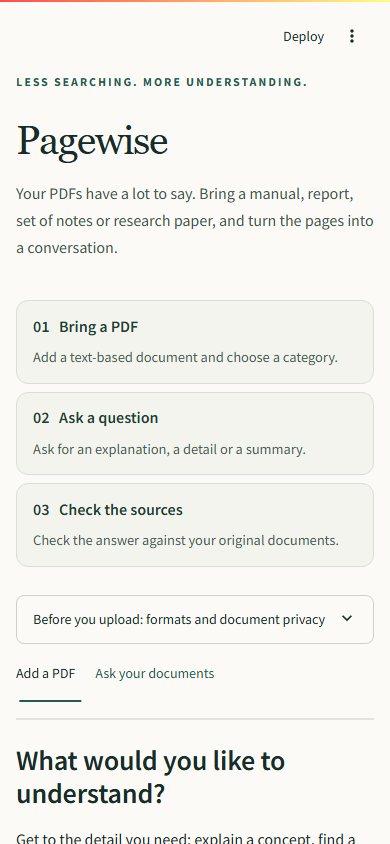
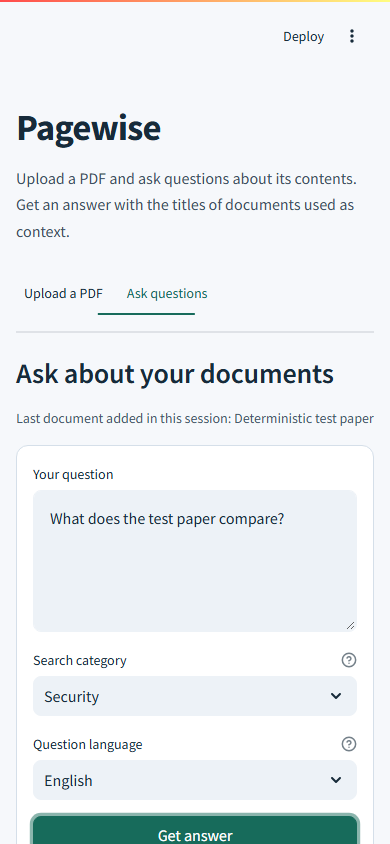
Simplify Pagewise with direct copy and focused upload and question layouts

diff --git a/frontend/app.py b/frontend/app.py
@@ -41,117 +41,124 @@ def post(path, **kwargs):
 st.set_page_config(page_title="Pagewise", page_icon=":books:", layout="wide")
 st.markdown("""
 <style>
-.block-container { max-width: 1120px; padding-top: 5rem; padding-bottom: 3rem; }
-h1, h2, h3 { letter-spacing: -0.035em; }
-h1 { font-family: Georgia, serif !important; font-weight: 500 !important; font-size: clamp(2.5rem, 6vw, 4rem) !important; }
-[data-testid="stCaptionContainer"], [data-testid="stCaptionContainer"] p { color: #4b5b55 !important; opacity: 1 !important; }
-[data-testid="stForm"] { border-radius: 16px; background: #ffffff; padding: 1.4rem; }
-[data-baseweb="tab-list"] { gap: 1.25rem; margin-bottom: 1rem; }
-[data-baseweb="tab"] { font-size: 1rem; padding-bottom: 0.8rem; }
-.workspace-kicker { color: #245c50; font-size: 0.75rem; font-weight: 700; letter-spacing: 0.16em; margin-bottom: 0.3rem; }
-.workspace-intro { font-size: 1.12rem; color: #42554c; max-width: 680px; line-height: 1.7; }
-.workflow { display: grid; grid-template-columns: repeat(3, 1fr); gap: 0.75rem; margin: 1.4rem 0 1.8rem; }
-.workflow-item { border: 1px solid #d8dfd6; border-radius: 12px; padding: 1rem; background: #f2f4ed; }
-.workflow-item b { display: block; color: #203d32; margin-bottom: 0.3rem; }
-.workflow-item span { color: #4b5b55; font-size: 0.9rem; }
+.block-container { max-width: 1160px; padding-top: 4.8rem; padding-bottom: 2rem; }
+h1, h2, h3 { letter-spacing: -0.025em; }
+h1 { font-size: clamp(2.3rem, 5vw, 3rem) !important; font-weight: 650 !important; }
+[data-testid="stCaptionContainer"], [data-testid="stCaptionContainer"] p { color: #46596b !important; opacity: 1 !important; }
+[data-testid="stForm"] { background: #ffffff; border: 1px solid #d5dfe9; border-radius: 12px; padding: 1.4rem; }
+[data-baseweb="tab-list"] { gap: 0.5rem; margin-top: 0.8rem; margin-bottom: 1rem; }
+[data-baseweb="tab"] { font-size: 1rem; padding: 0.7rem 1rem; }
+[data-baseweb="tab"][aria-selected="true"] { font-weight: 650; }
+.workspace-intro { color: #3c5063; font-size: 1.08rem; line-height: 1.65; max-width: 760px; margin-bottom: 1rem; }
 @media (max-width: 640px) {
- .block-container { padding-top: 4.5rem; }
- .workflow { grid-template-columns: 1fr; gap: 0.5rem; }
- .workflow-item { padding: 0.8rem 1rem; }
+ .block-container { padding-top: 4.3rem; }
  [data-testid="stForm"] { padding: 1rem; }
+ [data-baseweb="tab"] { padding: 0.65rem 0.5rem; }
 }
 </style>
-<div class="workspace-kicker">LESS SEARCHING. MORE UNDERSTANDING.</div>
 """, unsafe_allow_html=True)
 st.title("Pagewise")
-st.markdown('<p class="workspace-intro">Your PDFs have a lot to say. Bring a manual, report, set of notes or research paper, and turn the pages into a conversation.</p>', unsafe_allow_html=True)
-st.markdown("""
-<div class="workflow" aria-label="How it works">
- <div class="workflow-item"><b>01 &nbsp; Bring a PDF</b><span>Add a text-based document and choose a category.</span></div>
- <div class="workflow-item"><b>02 &nbsp; Ask a question</b><span>Ask for an explanation, a detail or a summary.</span></div>
- <div class="workflow-item"><b>03 &nbsp; Check the sources</b><span>Check the answer against your original documents.</span></div>
-</div>
-""", unsafe_allow_html=True)
-with st.expander("Before you upload: formats and document privacy"):
-    st.write("Use text-based PDFs up to 10 MB by default. Scanned pages need OCR first. Uploading the same PDF again creates duplicate passages.")
-    st.write("Only upload documents you have permission to process. Document text and questions are sent to external model and translation providers. Everyone using this deployment shares the same document library.")
-    st.caption("Answers can be incomplete or incorrect. Retrieved document titles help you check the context; they are not verified citations for every sentence.")
+st.markdown('<p class="workspace-intro">Upload a PDF and ask questions about its contents. Get an answer with the titles of documents used as context.</p>', unsafe_allow_html=True)
 
-tab_upload, tab_ask = st.tabs(["Add a PDF", "Ask your documents"])
+tab_upload, tab_ask = st.tabs(["Upload a PDF", "Ask questions"])
 with tab_upload:
-    st.subheader("Give your next question a starting point")
-    st.write("Manuals, reports, study notes and research papers are welcome. Add a PDF, then ask questions in its category.")
-    with st.form("upload_form"):
-        file = st.file_uploader("PDF document", type=["pdf"], help="Choose a text-based PDF. Scanned documents need text recognition before upload.")
-        title = st.text_input("Document title", max_chars=250, placeholder="A name you will recognize in your sources")
-        col_domain, col_language = st.columns(2)
-        with col_domain:
-            domain = st.selectbox("Document category", DOMAINS, format_func=CATEGORY_LABELS.get, key="upload_domain", help="Use this same category when asking questions.")
-        with col_language:
-            language = st.selectbox("Document language", list(LANGUAGES), format_func=LANGUAGES.get)
-        with st.expander("Optional: research paper settings"):
-            exclude_references = st.checkbox("Skip reference sections", value=False, help="Stops at a detected References or Bibliography heading and ignores everything after it. Leave off to keep the full document.")
-        uploaded = st.form_submit_button("Make PDF searchable", type="primary", use_container_width=True)
-    if uploaded:
-        if not file or not title.strip():
-            st.warning("Choose a PDF and give your document a title.")
-        else:
-            with st.spinner("Making your document searchable..."):
-                body = post("ingest", files={"file": (file.name, file.getvalue(), "application/pdf")}, data={"paper_title": title.strip(), "domain": domain, "language": language, "exclude_references": str(exclude_references).lower()})
-            if body is not None:
-                if isinstance(body, dict) and isinstance(body.get("inserted_chunks"), int):
-                    st.session_state.last_indexed = {"title": title.strip(), "domain": domain}
-                    st.session_state.ask_domain = domain
-                    st.session_state.pop("answer", None)
-                else:
-                    st.error("The service returned an incomplete indexing result. Please check before uploading again.")
-    if "last_indexed" in st.session_state:
-        paper = st.session_state.last_indexed
-        st.success(f"Document ready: {paper['title']}. Next, open Ask your documents. The {CATEGORY_LABELS[paper['domain']]} category is already selected.")
-    else:
-        st.caption("Text-based PDFs up to 10 MB. Scanned pages need OCR before upload. No sample documents are preloaded.")
+    main, guide = st.columns([2.1, 1], gap="large")
+    with main:
+        st.subheader("Add your document")
+        with st.form("upload_form"):
+            file = st.file_uploader("PDF file", type=["pdf"], help="Text-based PDF, up to 10 MB. Scanned or image-only PDFs need text recognition first.")
+            st.caption("Text-based PDF only. Maximum file size: 10 MB.")
+            title = st.text_input("Document title", max_chars=250, placeholder="For example: Employee handbook", help="This title will appear when the document is used to answer a question.")
+            col_category, col_language = st.columns(2)
+            with col_category:
+                domain = st.selectbox("Document category", DOMAINS, format_func=CATEGORY_LABELS.get, key="upload_domain", help="Questions search all documents in the selected category. Use General documents unless a more specific category fits.")
+            with col_language:
+                language = st.selectbox("Document language", list(LANGUAGES), format_func=LANGUAGES.get)
+            with st.expander("Optional: skip reference sections"):
+                exclude_references = st.checkbox("Stop at References or Bibliography", value=False)
+                st.caption("Only text before the detected heading will be kept. Any appendices after it will also be skipped. Leave this off for most PDFs.")
+            uploaded = st.form_submit_button("Upload PDF", type="primary", use_container_width=True)
+        if uploaded:
+            if not file or not title.strip():
+                st.warning("Choose a PDF and enter a document title.")
+            else:
+                with st.spinner("Preparing your PDF for questions..."):
+                    body = post("ingest", files={"file": (file.name, file.getvalue(), "application/pdf")}, data={"paper_title": title.strip(), "domain": domain, "language": language, "exclude_references": str(exclude_references).lower()})
+                if body is not None:
+                    if isinstance(body, dict) and isinstance(body.get("inserted_chunks"), int):
+                        st.session_state.last_indexed = {"title": title.strip(), "domain": domain}
+                        st.session_state.ask_domain = domain
+                        st.session_state.pop("answer", None)
+                    else:
+                        st.error("The service did not confirm that the PDF was prepared. Check before uploading it again.")
+        if "last_indexed" in st.session_state:
+            document = st.session_state.last_indexed
+            st.success(f"Ready to use: {document['title']}. Open Ask questions to continue. Category: {CATEGORY_LABELS[document['domain']]}.")
+    with guide:
+        st.subheader("Before you upload")
+        with st.container(border=True):
+            st.markdown("**Supported documents**")
+            st.write("Manuals, reports, study notes, guides and research papers saved as text-based PDFs.")
+            st.markdown("**Scanned pages**")
+            st.write("If the text cannot be selected in a PDF reader, run text recognition (OCR) before uploading.")
+            st.markdown("**Avoid duplicate uploads**")
+            st.write("Uploading the same PDF again adds another copy of its text to the library.")
+        st.info("Shared library: other users can ask questions about uploaded content. Do not upload private or confidential documents.")
+        st.caption("Upload only documents you have permission to process. Document text and questions are sent to external AI and translation services.")
+
 with tab_ask:
-    st.subheader("What would you like to understand?")
-    st.write("Get to the detail you need: explain a concept, find a fact or summarize an idea. Search the category where your PDF was added.")
-    if "last_indexed" in st.session_state:
-        st.caption("Recently added in this session: " + st.session_state.last_indexed["title"])
-    else:
-        st.info("New here? Start with Add a PDF. If a document is already in the shared library, choose its category below.")
-    with st.form("ask_form"):
-        question = st.text_area("Your question", placeholder="What are the key steps described in this document?", height=130, max_chars=8000)
-        col_domain, col_language = st.columns(2)
-        with col_domain:
-            domain = st.selectbox("Document category", DOMAINS, format_func=CATEGORY_LABELS.get, key="ask_domain")
-        with col_language:
-            language = st.selectbox("Question language", ["en", "auto", "es", "fr", "it"], format_func=lambda x: "Detect automatically" if x == "auto" else LANGUAGES[x], help="Choose a language directly to avoid relying on automatic detection.")
-        submitted = st.form_submit_button("Find an answer", type="primary", use_container_width=True)
-    if submitted:
-        st.session_state.pop("answer", None)
-        if not question.strip():
-            st.warning("Enter a question to search your documents.")
+    main, guide = st.columns([2.1, 1], gap="large")
+    with main:
+        st.subheader("Ask about your documents")
+        if "last_indexed" in st.session_state:
+            st.caption("Last document added in this session: " + st.session_state.last_indexed["title"])
         else:
-            with st.spinner("Reading relevant passages..."):
-                body = post("ask", json={"question": question.strip(), "domain": domain, "source_language": None if language == "auto" else language})
-            if body is not None:
-                if isinstance(body, dict) and isinstance(body.get("answer"), str):
-                    st.session_state.answer = body
-                else:
-                    st.error("The service returned an incomplete answer. Please try again.")
+            st.caption("Upload a PDF first, or choose a category that already contains documents in the shared library.")
+        with st.form("ask_form"):
+            question = st.text_area("Your question", placeholder="What are the main steps described in this document?", height=140, max_chars=8000)
+            col_category, col_language = st.columns(2)
+            with col_category:
+                domain = st.selectbox("Search category", DOMAINS, format_func=CATEGORY_LABELS.get, key="ask_domain", help="Choose the category used when the PDF was uploaded. Answers may use multiple documents in that category.")
+            with col_language:
+                language = st.selectbox("Question language", ["en", "auto", "es", "fr", "it"], format_func=lambda x: "Detect automatically" if x == "auto" else LANGUAGES[x], help="Select the language of your question. The answer will use the same language.")
+            submitted = st.form_submit_button("Get answer", type="primary", use_container_width=True)
+        if submitted:
+            st.session_state.pop("answer", None)
+            if not question.strip():
+                st.warning("Enter a question about your documents.")
+            else:
+                with st.spinner("Finding relevant text and preparing your answer..."):
+                    body = post("ask", json={"question": question.strip(), "domain": domain, "source_language": None if language == "auto" else language})
+                if body is not None:
+                    if isinstance(body, dict) and isinstance(body.get("answer"), str):
+                        st.session_state.answer = body
+                    else:
+                        st.error("The service returned an incomplete answer. Please try again.")
+    with guide:
+        st.subheader("Get a useful answer")
+        with st.container(border=True):
+            st.markdown("**Choose the right category**")
+            st.write("Pagewise searches all documents in that category, not just the last PDF you uploaded.")
+            st.markdown("**Ask a specific question**")
+            st.write("Name the topic, process or rule you want explained. Include relevant details in your question.")
+            st.markdown("**Check the original PDF**")
+            st.write("Source titles identify documents used as context. They are not page citations or proof that every sentence is correct.")
     if "answer" in st.session_state:
         body = st.session_state.answer
         st.divider()
         st.subheader("Answer")
-        st.write(body["answer"])
+        with st.container(border=True):
+            st.write(body["answer"])
         refs = body.get("references", [])
         if refs:
             st.subheader("Source documents")
-            st.caption("These documents supplied the retrieved passages. Check the originals for context; titles do not verify every sentence.")
+            st.caption("Documents retrieved as context for this answer. Review the originals to verify important details.")
             for title in refs:
                 with st.container(border=True):
                     st.text(title)
         else:
-            st.info("No source documents to display. Add a PDF in the selected category, then ask again.")
+            st.info("No source documents to display. Check the category or upload a PDF before asking again.")
     else:
-        st.caption("Your answer and source document titles will appear here after you ask a question.")
+        st.caption("Your answer and source document titles will appear below after you submit a question.")
 st.divider()
-st.caption("A clearer way through your documents. English, Spanish, French and Italian. Always check important conclusions against the original document.")
+st.caption("AI-generated answers can be incomplete or incorrect. Verify important information in the original documents.")

diff --git a/tests/browser_check.py b/tests/browser_check.py
@@ -29,29 +29,29 @@ with sync_playwright() as p:
         page = browser.new_page(viewport={'width': width, 'height': height})
         page.goto(os.getenv('BROWSER_TEST_URL', 'http://127.0.0.1:18502'))
         page.get_by_role('heading', name='Pagewise', exact=True).wait_for()
-        assert page.get_by_role('tab').first.inner_text() == 'Add a PDF'
-        assert page.get_by_role('tab', name='Add a PDF').get_attribute('aria-selected') == 'true'
+        assert page.get_by_role('tab').first.inner_text() == 'Upload a PDF'
+        assert page.get_by_role('tab', name='Upload a PDF').get_attribute('aria-selected') == 'true'
         assert 'General documents' in page.locator('[role=tabpanel]:visible').get_by_test_id('stSelectbox').first.inner_text()
         assert page.get_by_test_id('stCaptionContainer').first.evaluate("el => getComputedStyle(el).opacity") == '1'
-        page.get_by_role('tab', name='Ask your documents').click()
-        page.get_by_role('button', name='Find an answer').click()
-        page.get_by_text('Enter a question to search your documents.', exact=True).wait_for()
-        page.get_by_role('tab', name='Add a PDF').click()
-        page.get_by_role('button', name='Make PDF searchable', exact=True).click()
-        page.get_by_text('Choose a PDF and give your document a title.', exact=True).wait_for()
+        page.get_by_role('tab', name='Ask questions').click()
+        page.get_by_role('button', name='Get answer').click()
+        page.get_by_text('Enter a question about your documents.', exact=True).wait_for()
+        page.get_by_role('tab', name='Upload a PDF').click()
+        page.get_by_role('button', name='Upload PDF', exact=True).click()
+        page.get_by_text('Choose a PDF and enter a document title.', exact=True).wait_for()
         with page.expect_response(lambda response: '/upload_file/' in response.url and response.request.method == 'PUT') as upload:
             page.locator('input[type=file]').set_input_files({'name': 'fixture.pdf', 'mimeType': 'application/pdf', 'buffer': pdf_bytes()})
         assert upload.value.ok
         page.get_by_role('textbox', name='Document title', exact=True).fill('Deterministic test paper')
         page.get_by_role('combobox').first.click()
         page.get_by_role('option', name='Security', exact=True).click()
-        page.get_by_role('button', name='Make PDF searchable', exact=True).click()
-        page.get_by_text(re.compile('Document ready:')).wait_for()
-        page.get_by_role('tab', name='Ask your documents').click()
+        page.get_by_role('button', name='Upload PDF', exact=True).click()
+        page.get_by_text(re.compile('Ready to use:')).wait_for()
+        page.get_by_role('tab', name='Ask questions').click()
         assert 'Security' in page.locator('[role=tabpanel]:visible').get_by_test_id('stSelectbox').first.inner_text()
         page.get_by_role('textbox', name='Your question').fill('What does the test paper compare?')
         # Verify keyboard submission and a persistent answer.
-        page.get_by_role('button', name='Find an answer').focus()
+        page.get_by_role('button', name='Get answer').focus()
         page.keyboard.press('Enter')
         page.get_by_text(re.compile('This is a test fixture, not a live model answer.')).wait_for()
         page.get_by_role('heading', name='Source documents').wait_for()

diff --git a/tests/test_frontend.py b/tests/test_frontend.py
@@ -8,7 +8,7 @@ APP = str(Path(__file__).resolve().parents[1] / 'frontend/app.py')
 
 def test_empty_question():
     app = AppTest.from_file(APP).run()
-    next(button for button in app.button if button.label == 'Find an answer').click().run()
+    next(button for button in app.button if button.label == 'Get answer').click().run()
     assert not app.exception
     assert 'Enter a question' in app.warning[0].value
 
@@ -17,7 +17,7 @@ def test_network_failure():
     with patch('requests.post', side_effect=requests.ConnectionError):
         app = AppTest.from_file(APP).run()
         app.text_area[0].input('What is the method?')
-        next(button for button in app.button if button.label == 'Find an answer').click().run()
+        next(button for button in app.button if button.label == 'Get answer').click().run()
     assert not app.exception
     assert 'Cannot reach' in app.error[0].value
 
@@ -28,7 +28,7 @@ def test_answer_persists_and_empty_sources():
     with patch('requests.post', return_value=response):
         app = AppTest.from_file(APP).run()
         app.text_area[0].input('What is the method?')
-        next(button for button in app.button if button.label == 'Find an answer').click().run()
+        next(button for button in app.button if button.label == 'Get answer').click().run()
         app.run()
     assert not app.exception
     assert any('No source documents' in entry.value for entry in app.info)
@@ -38,15 +38,15 @@ def test_denied_permission():
     with patch('requests.post', return_value=Mock(ok=False, status_code=403)):
         app = AppTest.from_file(APP).run()
         app.text_area[0].input('What is the method?')
-        next(button for button in app.button if button.label == 'Find an answer').click().run()
+        next(button for button in app.button if button.label == 'Get answer').click().run()
     assert not app.exception
     assert 'permission' in app.error[0].value
 
 
 def test_upload_is_first_and_empty_upload_has_guidance():
     app = AppTest.from_file(APP).run()
-    assert [tab.label for tab in app.tabs] == ['Add a PDF', 'Ask your documents']
-    next(button for button in app.button if button.label == 'Make PDF searchable').click().run()
+    assert [tab.label for tab in app.tabs] == ['Upload a PDF', 'Ask questions']
+    next(button for button in app.button if button.label == 'Upload PDF').click().run()
     assert not app.exception
     assert 'Choose a PDF' in app.warning[0].value
 

diff --git a/docs/VALIDATION.md b/docs/VALIDATION.md
@@ -118,3 +118,14 @@ layout. Pagewise upload/question screenshots are current public captures; older
 live-answer images are retained as historical verification artifacts. Existing
 repository URLs, Render service identifiers and vector collection names remain
 unchanged.
+
+## Clearer workspace copy and layout
+
+Replaced the promotional hero and three introductory cards with a concise
+explanation and upload-first navigation. Upload and question forms now sit
+beside task-specific guidance on wider screens; columns stack on phones.
+Labels, loading states, reference-exclusion guidance and source explanations
+use direct language. Shared-library privacy is visible in the upload view.
+All 33 regression tests passed. Fixture browser checks passed at phone, tablet
+and desktop sizes, including PDF upload, category handoff, keyboard submission,
+answer/source rendering and page-width overflow checks.
